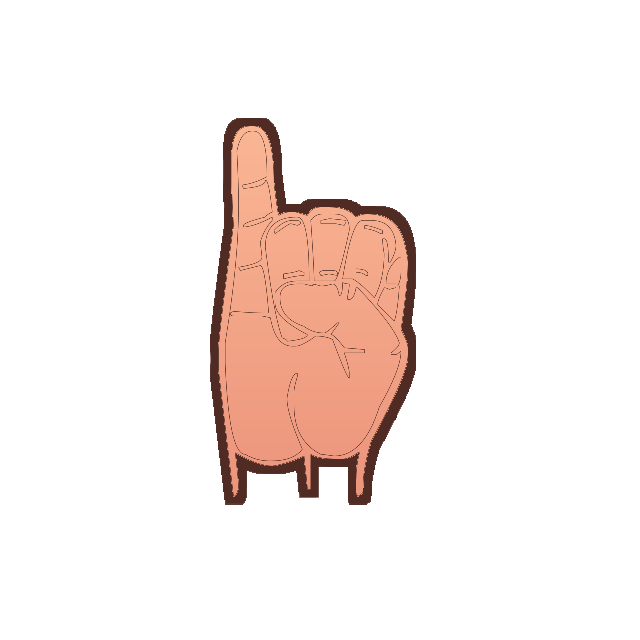
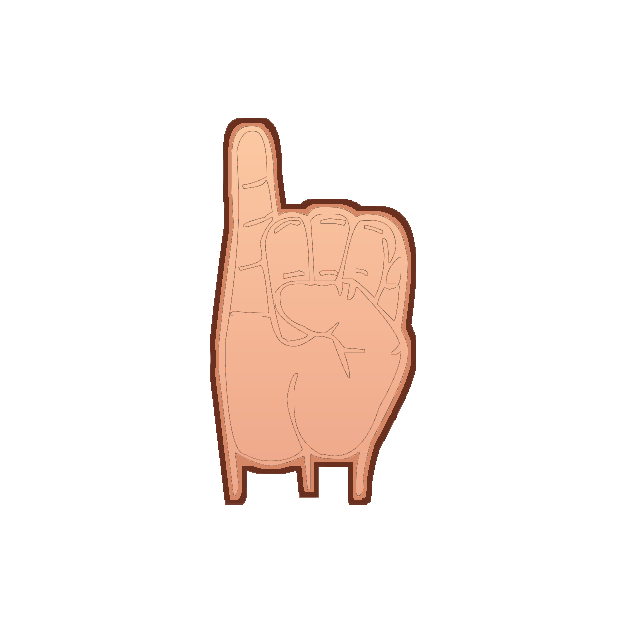
Match live and alphabet hands to Bob cartoon style

Changed region(s): [[0.3125, 0.1875, 0.6562, 0.8125]]

diff --git a/unity/Assets/BCSignVR/Scripts/HandSkeletonView.cs b/unity/Assets/BCSignVR/Scripts/HandSkeletonView.cs
@@ -2,6 +2,11 @@ using UnityEngine;
 
 namespace BCSignVR
 {
+    /// <summary>
+    /// Presents webcam/VR landmarks as a friendly Bob-style hand. The source
+    /// remains the real landmark stream; this layer only changes presentation
+    /// so the learner never sees a blue/green debugging skeleton.
+    /// </summary>
     public sealed class HandSkeletonView
     {
         static readonly int[,] Bones =
@@ -15,122 +20,144 @@ namespace BCSignVR
 
         readonly Transform root;
         readonly Transform[] joints = new Transform[HandPoseFrame.JointCount];
+        readonly Transform[] jointOutlines = new Transform[HandPoseFrame.JointCount];
         readonly Transform[] bones = new Transform[Bones.GetLength(0)];
-        readonly Material material;
+        readonly Transform[] boneOutlines = new Transform[Bones.GetLength(0)];
+        readonly Material outlineMaterial;
+        readonly Material fillMaterial;
+        readonly Material highlightMaterial;
         readonly Transform palm;
-        readonly Transform knuckles;
+        readonly Transform palmOutline;
         readonly Transform wrist;
-        readonly bool solid;
+        readonly Transform wristOutline;
+        readonly Transform highlight;
 
         public HandSkeletonView(string name, Transform parent, Color color, bool solid = false)
         {
-            this.solid = solid;
             root = new GameObject(name).transform;
             root.SetParent(parent, false);
-            material = solid ? ClassroomFactory.LitMaterial(color) : ClassroomFactory.Material(color);
+            // The outline is deliberately a darker peach rather than the old
+            // debug brown/green palette. Some Mac GPUs depth-sort the paired
+            // capsules as one layer, so keeping both layers in Bob's skin
+            // palette guarantees a friendly hand even when the outline wins.
+            outlineMaterial = ClassroomFactory.Material(new Color(.97f, .73f, .57f));
+            // Bob's generated hand uses a warm peach base with a soft apricot
+            // highlight. Keep the live learner hand in the same family.
+            fillMaterial = ClassroomFactory.Material(new Color(.97f, .73f, .57f));
+            highlightMaterial = ClassroomFactory.Material(new Color(1.0f, .84f, .68f));
+
             for (var i = 0; i < joints.Length; i++)
             {
-                var sphere = GameObject.CreatePrimitive(PrimitiveType.Sphere);
-                sphere.name = $"Joint {i}";
-                Object.Destroy(sphere.GetComponent<Collider>());
-                sphere.transform.SetParent(root, false);
-                // Keep landmarks subtle. The silhouette is built from the
-                // rounded finger segments below, so joints should not look
-                // like oversized robot ball bearings.
-                sphere.transform.localScale = Vector3.one * (solid ? .030f : .022f);
-                sphere.GetComponent<Renderer>().sharedMaterial = material;
-                joints[i] = sphere.transform;
+                jointOutlines[i] = Ball($"Bob hand outline joint {i}", outlineMaterial);
+                joints[i] = Ball($"Bob hand joint {i}", fillMaterial);
+                // Do not show landmark beads. Keeping the transforms hidden
+                // lets the rounded capsules use them as anchors without
+                // exposing a technical skeleton to the learner.
+                jointOutlines[i].gameObject.SetActive(false);
+                joints[i].gameObject.SetActive(false);
             }
             for (var i = 0; i < bones.Length; i++)
             {
-                // A scaled sphere gives each phalanx a soft capsule with a
-                // rounded end. That reads as an illustrated human hand much
-                // better than thin, uniform cylinders.
-                var segment = GameObject.CreatePrimitive(PrimitiveType.Sphere);
-                segment.name = $"Rounded finger segment {i}";
-                Object.Destroy(segment.GetComponent<Collider>());
-                segment.transform.SetParent(root, false);
-                segment.GetComponent<Renderer>().sharedMaterial = material;
-                bones[i] = segment.transform;
+                boneOutlines[i] = Capsule($"Bob hand outline finger {i}", outlineMaterial);
+                bones[i] = Capsule($"Bob hand finger {i}", fillMaterial);
             }
-            if (solid)
-            {
-                var shape = GameObject.CreatePrimitive(PrimitiveType.Sphere);
-                shape.name = "Soft palm"; Object.Destroy(shape.GetComponent<Collider>());
-                shape.transform.SetParent(root, false);
-                shape.GetComponent<Renderer>().sharedMaterial = material;
-                palm = shape.transform;
 
-                var bridge = GameObject.CreatePrimitive(PrimitiveType.Sphere);
-                bridge.name = "Rounded finger webbing"; Object.Destroy(bridge.GetComponent<Collider>());
-                bridge.transform.SetParent(root, false);
-                bridge.GetComponent<Renderer>().sharedMaterial = material;
-                knuckles = bridge.transform;
-
-                var wristShape = GameObject.CreatePrimitive(PrimitiveType.Sphere);
-                wristShape.name = "Soft wrist"; Object.Destroy(wristShape.GetComponent<Collider>());
-                wristShape.transform.SetParent(root, false);
-                wristShape.GetComponent<Renderer>().sharedMaterial = material;
-                wrist = wristShape.transform;
-            }
+            palmOutline = Ball("Bob hand outline palm", outlineMaterial);
+            palm = Ball("Bob hand palm", fillMaterial);
+            wristOutline = Ball("Bob hand outline wrist", outlineMaterial);
+            wrist = Ball("Bob hand wrist", fillMaterial);
+            highlight = Ball("Bob hand soft highlight", highlightMaterial);
         }
 
         public void SetPose(HandPoseFrame frame, Vector3 position, Quaternion rotation, float scale = 3f)
         {
             root.gameObject.SetActive(frame.tracked);
             if (!frame.tracked) return;
+
             root.position = position;
             root.rotation = rotation;
             var normalized = frame.NormalizedFeatures();
             for (var i = 0; i < joints.Length; i++)
-                joints[i].localPosition = new Vector3(normalized[i * 3], normalized[i * 3 + 1], normalized[i * 3 + 2]) * scale;
+            {
+                var point = new Vector3(normalized[i * 3], normalized[i * 3 + 1], 0f) * scale;
+                joints[i].localPosition = point;
+                jointOutlines[i].localPosition = point + Vector3.forward * .018f;
+                joints[i].localPosition = point - Vector3.forward * .05f;
+                var radius = JointRadius(i);
+                joints[i].localScale = Vector3.one * radius;
+                jointOutlines[i].localScale = Vector3.one * radius * .86f;
+            }
+
             for (var i = 0; i < bones.Length; i++)
             {
                 var a = joints[Bones[i, 0]].localPosition;
                 var b = joints[Bones[i, 1]].localPosition;
-                var delta = b - a;
-                bones[i].localPosition = (a + b) * 0.5f;
-                bones[i].localRotation = Quaternion.FromToRotation(Vector3.up, delta);
-                if (solid)
-                {
-                    var radius = SegmentRadius(i);
-                    // A Unity sphere has diameter 2, so its local Z scale is
-                    // the half-length plus one radius at each rounded end.
-                    // The segment is aligned from local Y (the same axis used
-                    // by the old cylinder), so elongate Y and keep X/Z round.
-                    bones[i].localScale = new Vector3(radius,
-                        delta.magnitude * .5f + radius, radius);
-                }
-                else
-                    bones[i].localScale = new Vector3(.018f, delta.magnitude * .5f, .018f);
+                SetCapsule(boneOutlines[i], a, b, SegmentRadius(i) * .86f, .018f);
+                SetCapsule(bones[i], a, b, SegmentRadius(i), -.05f);
             }
-            if (palm != null)
-            {
-                var baseOfFingers = (joints[7].localPosition + joints[12].localPosition + joints[17].localPosition + joints[22].localPosition) / 4;
-                var wristPoint = joints[0].localPosition;
-                var up = baseOfFingers - wristPoint;
-                // Lift the palm slightly into the finger bases so the hand
-                // reads as one continuous illustrated form rather than a
-                // circle with pieces floating above it.
-                palm.localPosition = wristPoint + up * .56f;
-                palm.localRotation = Quaternion.FromToRotation(Vector3.up, up);
-                palm.localScale = new Vector3(Vector3.Distance(joints[7].localPosition, joints[22].localPosition) + .28f,
-                    up.magnitude * 1.05f, .16f);
-                var fingerWidth = Vector3.Distance(joints[7].localPosition, joints[22].localPosition);
-                knuckles.localPosition = wristPoint + up * .57f;
-                knuckles.localRotation = Quaternion.FromToRotation(Vector3.up, up);
-                knuckles.localScale = new Vector3(fingerWidth + .25f, .13f, .17f);
-                wrist.localPosition = wristPoint - up.normalized * .06f;
-                wrist.localScale = new Vector3(.24f, .23f, .16f);
-            }
+
+            var wristPoint = joints[0].localPosition;
+            var indexBase = joints[6].localPosition;
+            var middleBase = joints[11].localPosition;
+            var ringBase = joints[16].localPosition;
+            var littleBase = joints[21].localPosition;
+            var knuckles = (indexBase + middleBase + ringBase + littleBase) * .25f;
+            var up = knuckles - wristPoint;
+            if (up.sqrMagnitude < .0001f) up = Vector3.up * .15f;
+            var direction = up.normalized;
+            var horizontal = new Vector3(-direction.y, direction.x, 0f);
+            var fingerSpan = Vector3.Distance(indexBase, littleBase);
+            var palmCenter = wristPoint + up * .54f;
+            SetOval(palmOutline, palmCenter + Vector3.forward * .018f, horizontal, direction,
+                fingerSpan * .92f + .20f, up.magnitude * .84f + .15f);
+            SetOval(palm, palmCenter - Vector3.forward * .05f, horizontal, direction,
+                fingerSpan * .76f + .12f, up.magnitude * .68f + .08f);
+            SetOval(wristOutline, wristPoint - direction * .06f + Vector3.forward * .018f,
+                horizontal, direction, .31f, .28f);
+            SetOval(wrist, wristPoint - direction * .06f - Vector3.forward * .05f, horizontal, direction, .27f, .23f);
+            SetOval(highlight, palmCenter + horizontal * (fingerSpan * -.16f) + direction * (up.magnitude * .20f),
+                horizontal, direction, .14f, .07f);
+        }
+
+        Transform Ball(string name, Material material)
+        {
+            var shape = GameObject.CreatePrimitive(PrimitiveType.Sphere);
+            shape.name = name;
+            Object.Destroy(shape.GetComponent<Collider>());
+            shape.transform.SetParent(root, false);
+            shape.GetComponent<Renderer>().sharedMaterial = material;
+            return shape.transform;
+        }
+
+        Transform Capsule(string name, Material material)
+        {
+            // Spheres are intentional: they render consistently in the
+            // standalone Mac build and keep the hand soft and toy-like.
+            return Ball(name, material);
+        }
+
+        static void SetCapsule(Transform capsule, Vector3 start, Vector3 end, float radius, float zOffset)
+        {
+            var delta = end - start;
+            capsule.localPosition = (start + end) * .5f + Vector3.forward * zOffset;
+            capsule.localRotation = Quaternion.FromToRotation(Vector3.up, delta);
+            capsule.localScale = new Vector3(radius, Mathf.Max(radius, delta.magnitude * .5f + radius), radius);
+        }
+
+        static void SetOval(Transform shape, Vector3 position, Vector3 horizontal, Vector3 vertical,
+            float width, float height)
+        {
+            shape.localPosition = position;
+            shape.localRotation = Quaternion.FromToRotation(Vector3.up, vertical);
+            shape.localScale = new Vector3(Mathf.Max(.02f, width), Mathf.Max(.02f, height), .14f);
         }
 
         static float SegmentRadius(int index)
         {
-            // The wrist/base is fuller and the fingertips taper gently.
             var segment = index % 5;
-            return segment == 0 ? .105f : segment == 1 ? .092f : segment == 2 ? .080f : segment == 3 ? .068f : .058f;
+            return segment == 0 ? .24f : segment == 1 ? .20f : segment == 2 ? .17f : segment == 3 ? .145f : .12f;
         }
+
+        static float JointRadius(int index) => index == 0 || index == 1 ? .18f : .14f;
     }
 }
-
